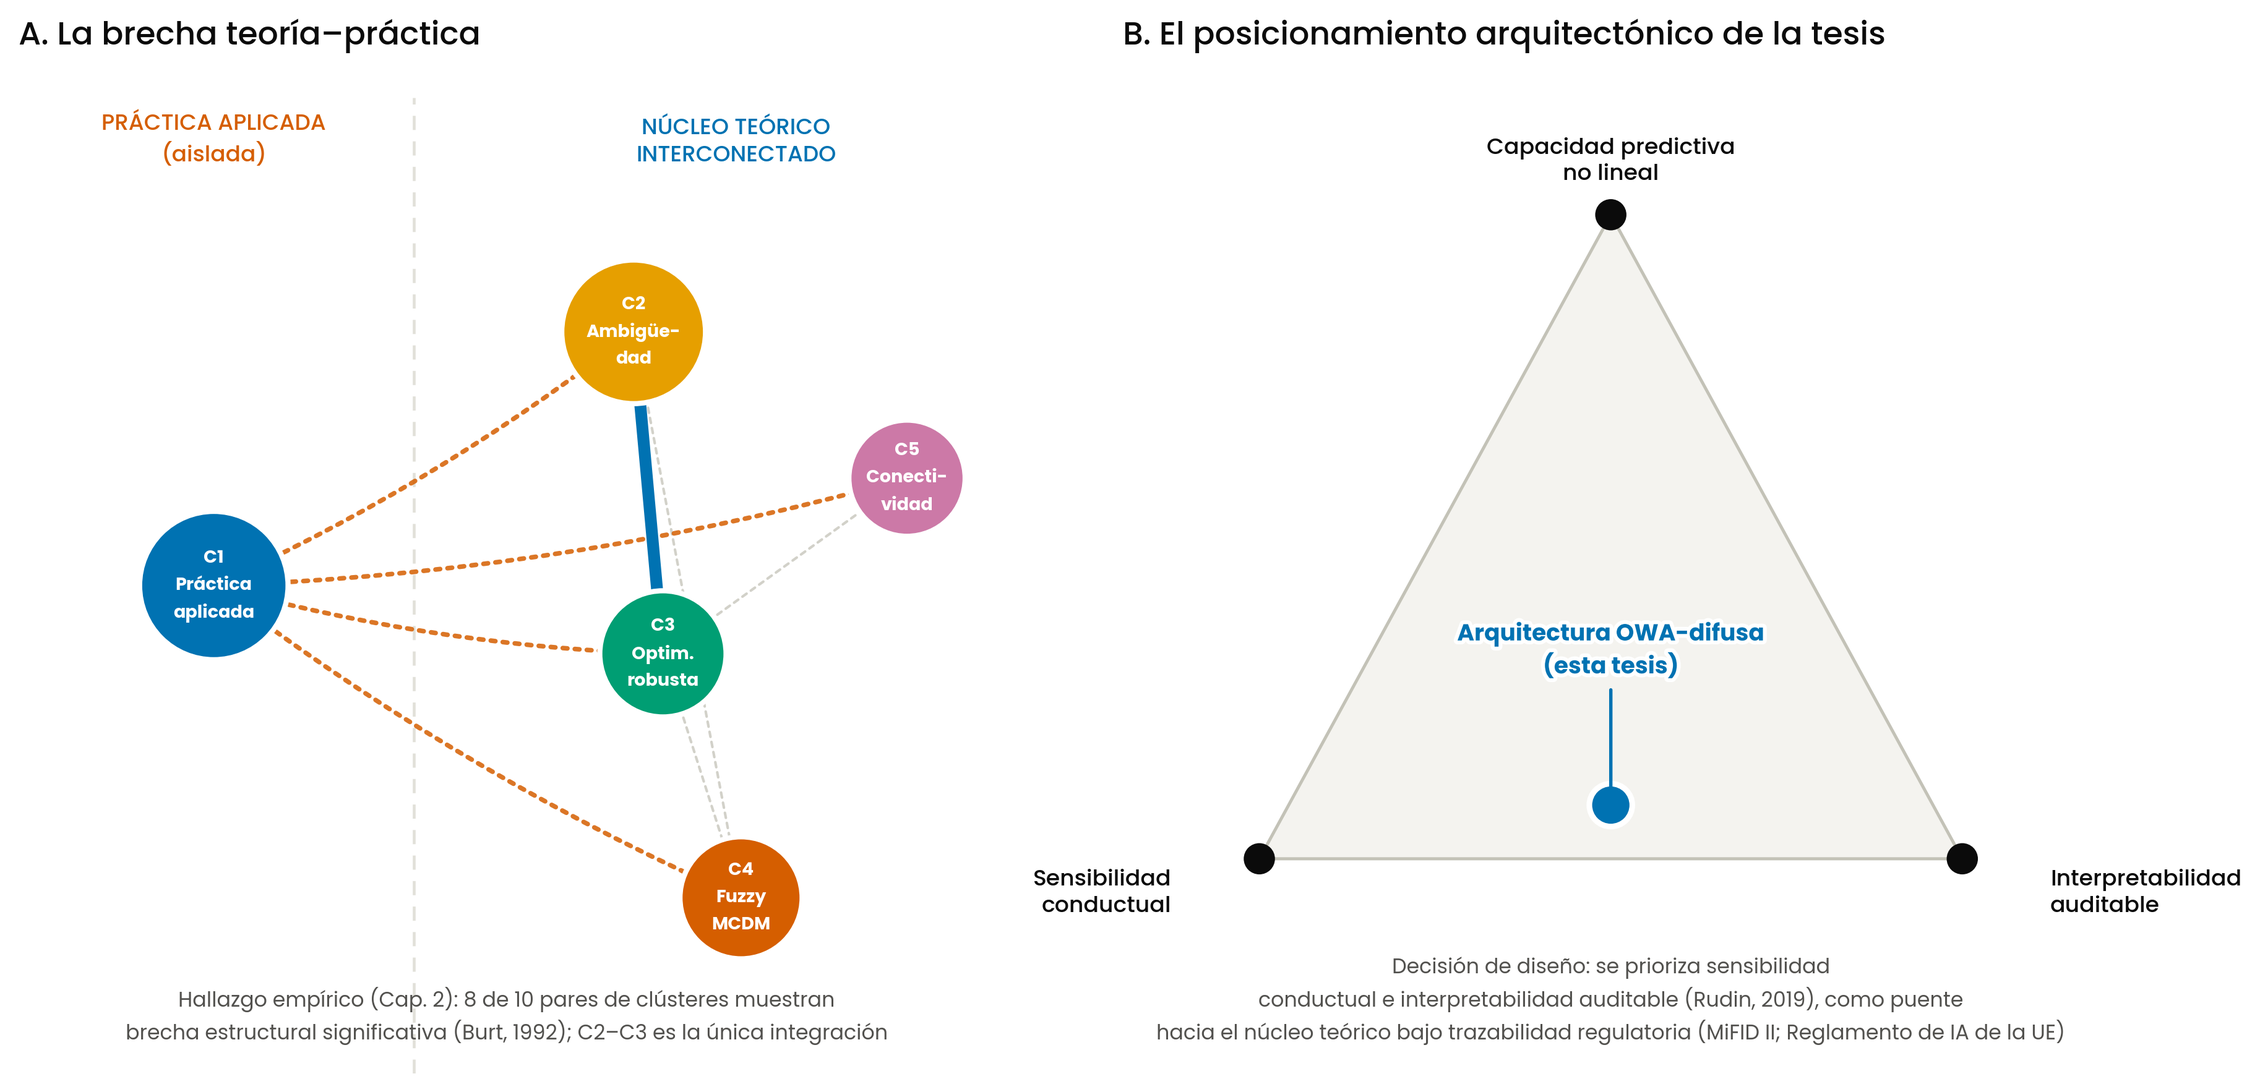
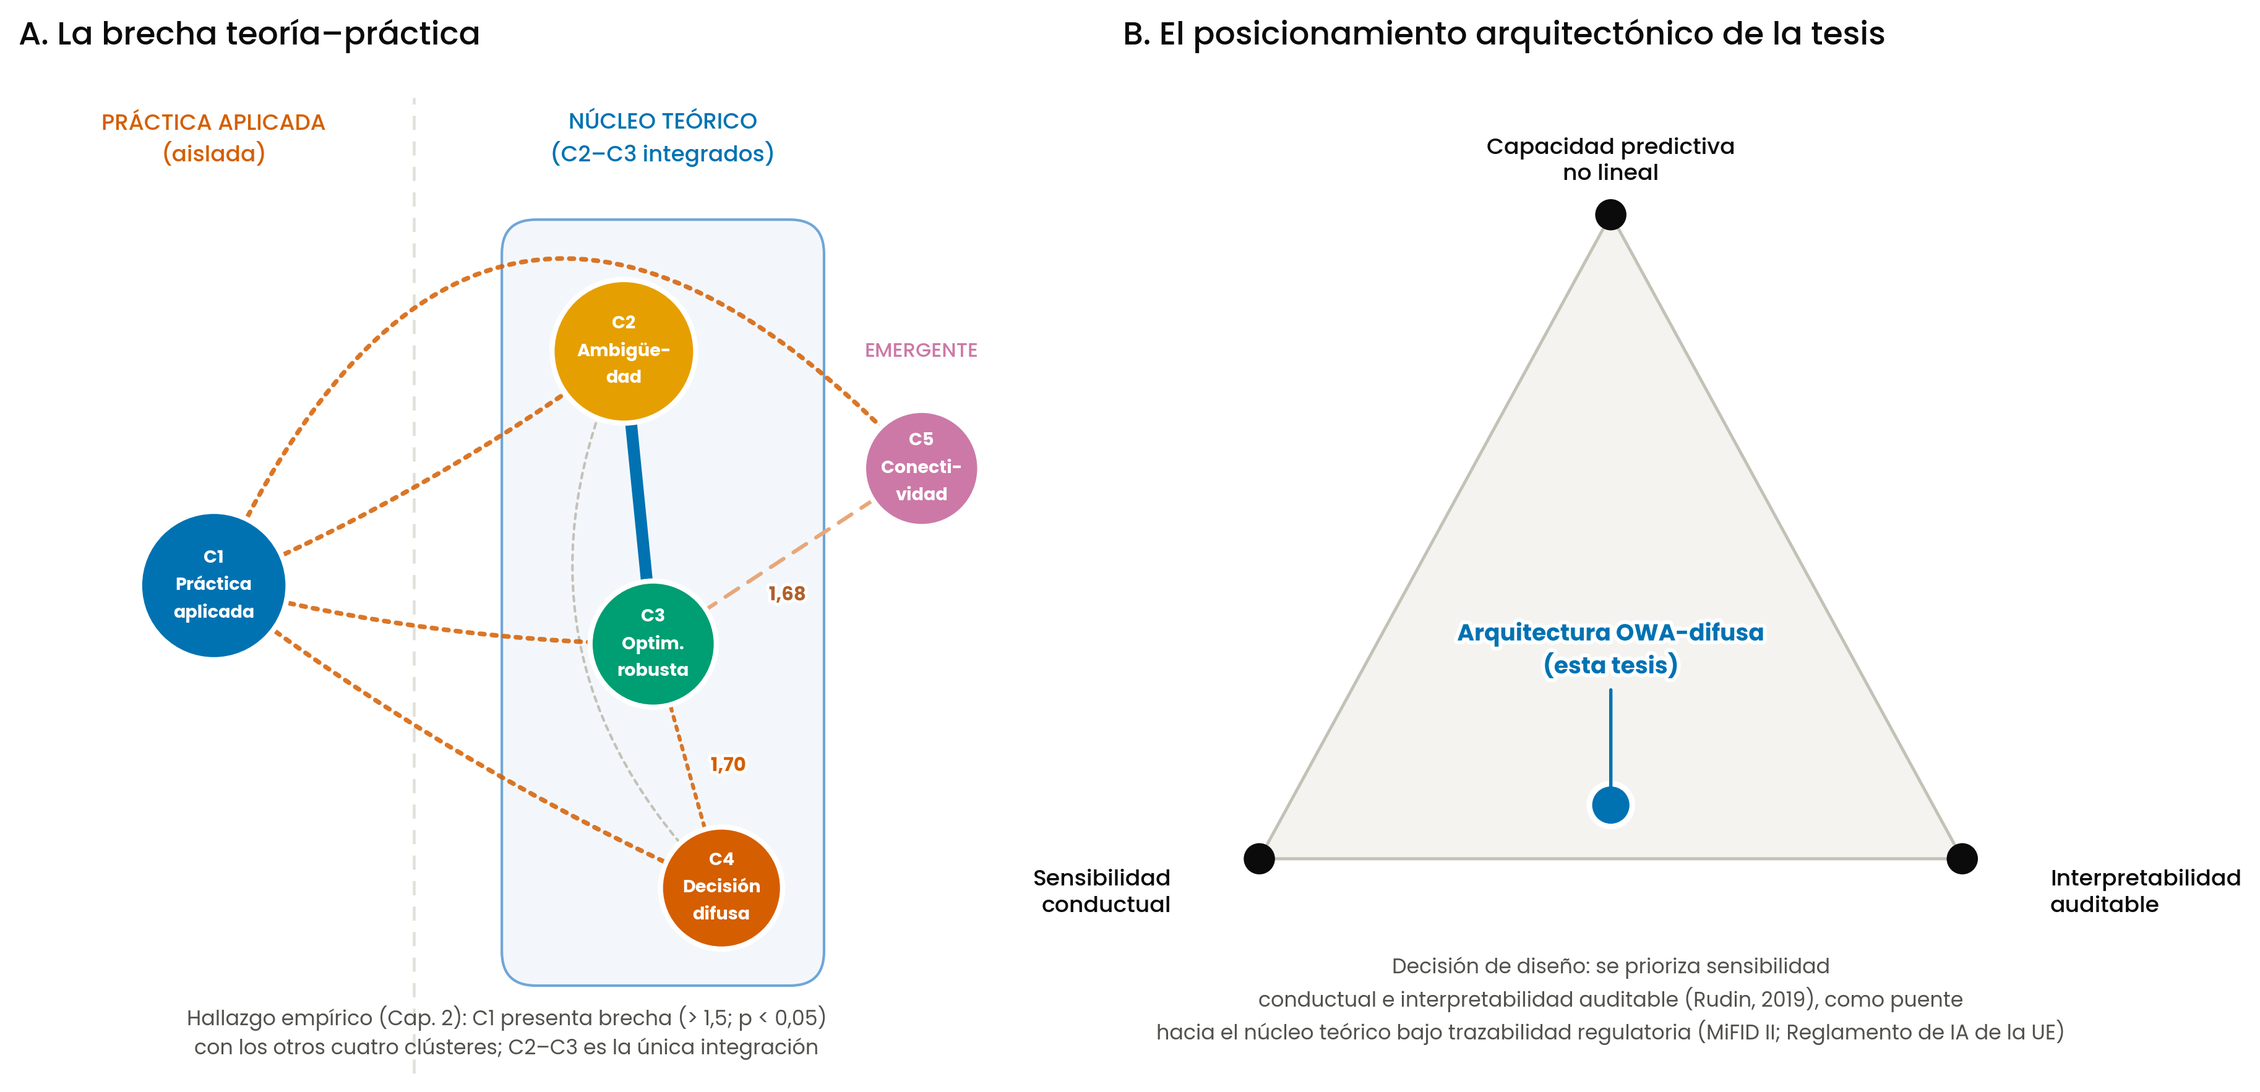
Figuras 1.4, 2.5 y 2.6 coherentes con la prueba de las brechas

diff --git a/figures/fig_2_6_brecha.py b/figures/fig_2_6_brecha.py
@@ -1,91 +1,147 @@
-"""Figura 2.6 — Esquema de la brecha teoría-práctica: C1 aislado del resto de la red temática."""
+"""Figura 2.6 — Esquema de la brecha teoría-práctica: C1 aislado del resto de la red temática.
+
+Los valores proceden de data/final/gap_analysis_v2.json (Tabla 2.3; Figura 2.5
+para la matriz completa) y los p-valores de results/prueba_brechas.csv
+(scripts/11_prueba_brechas_poisson.py). Convención de trazo:
+- rojo punteado: índice > 1,5 y p < 0,05 (prueba de Poisson);
+- rojo tenue discontinuo: índice > 1,5 con p >= 0,05;
+- gris: índice próximo a 1 (sin brecha);
+- azul continuo: integración por encima de lo esperado.
+"""
 import sys
 sys.path.insert(0, '.')
+import csv
 import json
 from style import *
-from matplotlib.patches import FancyArrowPatch, Circle
+from matplotlib.patches import FancyArrowPatch, Circle, FancyBboxPatch
+from matplotlib.lines import Line2D
 import matplotlib.patheffects as pe
 
 with open('../data/final/cluster_summaries.json', encoding='utf-8') as f:
     clusters = {c['cluster_rank']: c for c in json.load(f)}
+with open('../data/final/gap_analysis_v2.json', encoding='utf-8') as f:
+    gap = {tuple(p['par']): p for p in json.load(f)['pairs']}
+pval = {}
+with open('../results/prueba_brechas.csv', encoding='utf-8') as f:
+    for r in csv.DictReader(f):
+        a, b = [int(x[1:]) for x in r['par'].split('-')]
+        pval[(a, b)] = float(r['p_poisson'])
 
 pos = {
     1: (1.9, 5.0),
-    2: (6.1, 7.6),
-    3: (6.4, 4.4),
-    4: (7.0, 1.9),
-    5: (9.0, 6.3),
+    2: (5.9, 7.2),
+    3: (6.2, 4.5),
+    4: (6.8, 1.9),
+    5: (9.7, 5.6),
 }
 labels = {
     1: 'C1\nOpciones reales',
     2: 'C2\nAmbigüedad',
     3: 'C3\nOptim. robusta',
-    4: 'C4\nMCDM difuso',
+    4: 'C4\nDecisión\ndifusa',
     5: 'C5\nConectividad',
 }
+GMAX = gap[(1, 4)]['gap_score']
+FAINT_RED = '#e8a77a'
 
-fig, ax = new_fig(w=10.4, h=7.6)
-ax.set_xlim(0, 10.6)
-ax.set_ylim(0.5, 9.0)
+
+def radius(r):
+    return 0.42 + 0.34 * (clusters[r]['n_docs'] / 1202) ** 0.5
+
+
+def edge_label(i, j, frac, text, color, dx=0.0, dy=0.0):
+    (x1, y1), (x2, y2) = pos[i], pos[j]
+    mx, my = x1 * (1 - frac) + x2 * frac + dx, y1 * (1 - frac) + y2 * frac + dy
+    ax.text(mx, my, text, ha='center', va='center', fontsize=8.3, color=color,
+            family='Poppins', fontweight='bold', zorder=6, linespacing=1.25,
+            path_effects=[pe.withStroke(linewidth=2.8, foreground='white')])
+
+
+def gap_edge(i, j, frac, dx=0.0, dy=0.0, rad=0.06):
+    key = (min(i, j), max(i, j))
+    g = gap[key]['gap_score']
+    sig = pval[key] < 0.05
+    lw = 1.2 + 3.6 * (g / GMAX)
+    if sig:
+        a = FancyArrowPatch(pos[i], pos[j], arrowstyle='-', linewidth=lw, color=DIV_RED,
+                             linestyle=(0, (1, 1.4)), zorder=2, alpha=0.9,
+                             connectionstyle=f'arc3,rad={rad}')
+        txt, col = coma(g), DIV_RED
+    else:
+        a = FancyArrowPatch(pos[i], pos[j], arrowstyle='-', linewidth=lw, color=FAINT_RED,
+                             linestyle=(0, (4, 3)), zorder=2, alpha=0.9,
+                             connectionstyle=f'arc3,rad={rad}')
+        txt, col = f'{coma(g)}\n(p = {coma(pval[key], 2)})', '#b0602b'
+    ax.add_patch(a)
+    edge_label(i, j, frac, txt, col, dx, dy)
+
+
+fig, ax = new_fig(w=10.8, h=8.8)
+ax.set_xlim(0, 10.9)
+ax.set_ylim(-0.4, 10.4)
 ax.set_aspect('equal', adjustable='box')
 ax.axis('off')
 
-# Zona conceptual: divisor sutil entre "práctica aislada" (C1) y "núcleo teórico"
+# Divisor entre práctica aplicada y el resto del campo
 ax.axvline(3.9, color=GRID, linewidth=1.1, linestyle=(0, (5, 4)), zorder=1)
-ax.text(1.9, 8.55, 'PRÁCTICA APLICADA\n(aislada)', ha='center', fontsize=8.8, color=DIV_RED,
+ax.text(1.9, 9.75, 'PRÁCTICA APLICADA\n(aislada)', ha='center', fontsize=8.8, color=DIV_RED,
         family='Poppins', fontweight='medium', linespacing=1.4)
-ax.text(7.1, 8.55, 'NÚCLEO TEÓRICO INTERCONECTADO', ha='center', fontsize=8.8, color=SEQ_BLUE[4],
-        family='Poppins', fontweight='medium')
 
-# --- Brechas de C1 con el resto (el hallazgo nuclear) ---
-c1_gaps = {2: 4.54, 3: 1.57, 4: 7.73, 5: 7.20}
-gmax = max(c1_gaps.values())
-for j, g in c1_gaps.items():
-    lw = 1.2 + 3.6 * (g / gmax)
-    a = FancyArrowPatch(pos[1], pos[j], arrowstyle='-', linewidth=lw, color=DIV_RED,
-                         linestyle=(0, (1, 1.4)), zorder=2, alpha=0.85,
-                         connectionstyle='arc3,rad=0.06')
-    ax.add_patch(a)
-    frac = {2: 0.42, 3: 0.42, 4: 0.42, 5: 0.30}[j]
-    mx, my = (pos[1][0]*(1-frac) + pos[j][0]*frac), (pos[1][1]*(1-frac) + pos[j][1]*frac)
-    ax.text(mx, my, coma(g), ha='center', va='center', fontsize=8.3, color=DIV_RED,
-            family='Poppins', fontweight='bold', zorder=5,
-            path_effects=[pe.withStroke(linewidth=2.6, foreground='white')])
+# Núcleo teórico: C2, C3 y C4 dentro de un recuadro; C5 fuera
+box = FancyBboxPatch((4.75, 0.85), 3.35, 7.2, boxstyle='round,pad=0.05,rounding_size=0.35',
+                     facecolor='#f3f7fb', edgecolor=SEQ_BLUE[2], linewidth=1.0, zorder=0)
+ax.add_patch(box)
+ax.text(6.42, 0.35, 'NÚCLEO TEÓRICO (C2–C3 integrados)', ha='center', fontsize=8.8,
+        color=SEQ_BLUE[4], family='Poppins', fontweight='medium', linespacing=1.4)
+ax.text(9.7, 7.0, 'ESPECIALIDAD\nEMERGENTE', ha='center', fontsize=8.8, color=CAT['C5'],
+        family='Poppins', fontweight='medium', linespacing=1.4)
 
-# --- Integración C2-C3 (hallazgo secundario) ---
-a = FancyArrowPatch(pos[2], pos[3], arrowstyle='-', linewidth=5.2, color=DIV_BLUE, zorder=2)
-ax.add_patch(a)
-ax.text((pos[2][0]+pos[3][0])/2 + 0.55, (pos[2][1]+pos[3][1])/2, '0,37\nintegración',
+# Brechas de C1 con los otros cuatro clústeres (hallazgo nuclear)
+gap_edge(1, 2, 0.42)
+gap_edge(1, 3, 0.42)
+gap_edge(1, 4, 0.42)
+gap_edge(1, 5, 0.5, dy=3.95, rad=-1.0)
+
+# Brechas dentro del campo teórico y con C5
+gap_edge(3, 4, 0.50, dx=0.45)
+gap_edge(3, 5, 0.55, dy=-0.55)
+
+# Integración C2–C3
+ax.add_patch(FancyArrowPatch(pos[2], pos[3], arrowstyle='-', linewidth=5.2, color=DIV_BLUE, zorder=2))
+ax.text((pos[2][0] + pos[3][0]) / 2 + 0.5, (pos[2][1] + pos[3][1]) / 2, f"{coma(gap[(2, 3)]['gap_score'])}\nintegración",
         ha='left', va='center', fontsize=8.3, color=DIV_BLUE, family='Poppins', fontweight='bold',
-        linespacing=1.3, zorder=5)
+        linespacing=1.3, zorder=6, path_effects=[pe.withStroke(linewidth=2.8, foreground='white')])
 
-# --- Resto de pares del núcleo (de-enfatizados; ver Figura 2.4 para valores exactos) ---
-secondary_pairs = [(3, 4), (3, 5), (2, 4)]
-for i, j in secondary_pairs:
-    a = FancyArrowPatch(pos[i], pos[j], arrowstyle='-', linewidth=1.0, color=BASELINE,
-                         linestyle=(0, (2, 2)), zorder=1, alpha=0.75)
-    ax.add_patch(a)
+# C2–C4: sin brecha (co-ocurrencia próxima a la esperada)
+ax.add_patch(FancyArrowPatch(pos[2], pos[4], arrowstyle='-', linewidth=1.1, color=BASELINE,
+                             linestyle=(0, (2, 2)), zorder=1, connectionstyle='arc3,rad=0.35'))
+edge_label(2, 4, 0.7, f"{coma(gap[(2, 4)]['gap_score'])}", INK_MUTED, dx=-1.05)
 
-# --- Nodos ---
+# Nodos
 for r, (x, y) in pos.items():
-    n = clusters[r]['n_docs']
-    radius = 0.42 + 0.34 * (n / 1202) ** 0.5
-    circ = Circle((x, y), radius, facecolor=CAT[f'C{r}'], edgecolor='white', linewidth=2.2, zorder=4)
-    ax.add_patch(circ)
+    ax.add_patch(Circle((x, y), radius(r), facecolor=CAT[f'C{r}'], edgecolor='white', linewidth=2.2, zorder=4))
     ax.text(x, y, labels[r], ha='center', va='center', fontsize=7.9, color='white',
             family='Poppins', fontweight='bold', zorder=5, linespacing=1.4)
 
-# Nota sobre pares sin co-ocurrencia (C2–C5, C4–C5): no se dibujan (ausencia real de vínculo)
-ax.text(9.3, 3.55, 'C2–C5 y C4–C5:\nsin co-ocurrencia\n(sin vínculo)', ha='center',
-        fontsize=7.2, color=INK_MUTED, family='Poppins', linespacing=1.3)
+# Pares sin co-ocurrencia (no se dibujan)
+ax.text(9.7, 3.3, 'Sin co-ocurrencia\n(no se dibujan):\n'
+        f'C2–C5 (p = {coma(pval[(2, 5)], 3)})\nC4–C5 (p = {coma(pval[(4, 5)], 2)})',
+        ha='center', fontsize=7.4, color=INK_SECONDARY, family='Poppins', linespacing=1.35)
 
-title_block(fig, 'Figura 2.6 · La brecha teoría-práctica: C1 aislado del núcleo teórico',
-            'C1 (práctica aplicada) muestra brecha significativa con los cuatro clústeres restantes; '
-            'C2–C3 es la única integración temática del campo',
-            x=0.035, y=0.975, sub_y=0.925)
-source_note(fig, 'Fuente: elaboración propia a partir de la Tabla 2.3 (puntuación de brecha estructural, Burt 1992). '
-                  'Grosor de línea = magnitud de la brecha; tamaño de nodo = número de documentos del clúster.')
+# Leyenda de trazos
+handles = [
+    Line2D([0], [0], color=DIV_RED, lw=2.4, linestyle=(0, (1, 1.2)), label='Brecha > 1,5 con p < 0,05'),
+    Line2D([0], [0], color=FAINT_RED, lw=2.4, linestyle=(0, (4, 3)), label='Brecha > 1,5 con p ≥ 0,05'),
+    Line2D([0], [0], color=BASELINE, lw=1.4, linestyle=(0, (2, 2)), label='Sin brecha (≈ 1)'),
+    Line2D([0], [0], color=DIV_BLUE, lw=4.0, label='Integración (< 1)'),
+]
+leg = ax.legend(handles=handles, loc='lower center', bbox_to_anchor=(0.5, -0.02), ncol=4,
+                frameon=False, fontsize=8.0, handlelength=2.6, columnspacing=1.4)
+for t in leg.get_texts():
+    t.set_color(INK_SECONDARY)
 
-plt.tight_layout(rect=[0.01, 0.02, 0.99, 0.895])
+title_block(fig, 'Figura 2.6 · La brecha teoría-práctica', None)
+
+plt.tight_layout(rect=[0.01, 0.02, 0.99, 0.99])
 plt.savefig('fig_2_6_brecha.png', dpi=300, bbox_inches='tight', facecolor='white')
 print('OK fig_2_6_brecha.png')

diff --git a/figures/fig_1_4_brecha_diseno.py b/figures/fig_1_4_brecha_diseno.py
@@ -23,16 +23,16 @@ axL.axis('off')
 
 pos = {
     'C1': (2.0, 5.0),
-    'C2': (6.3, 7.6),
-    'C3': (6.6, 4.3),
-    'C4': (7.4, 1.8),
-    'C5': (9.1, 6.1),
+    'C2': (6.2, 7.4),
+    'C3': (6.5, 4.4),
+    'C4': (7.2, 1.9),
+    'C5': (9.25, 6.2),
 }
 labels = {
     'C1': 'C1\nPráctica aplicada\n(opciones reales)',
     'C2': 'C2\nAmbigüedad',
     'C3': 'C3\nOptim. robusta',
-    'C4': 'C4\nFuzzy MCDM',
+    'C4': 'C4\nDecisión difusa',
     'C5': 'C5\nConectividad',
 }
 sizes = {'C1': 1202, 'C2': 989, 'C3': 381, 'C4': 279, 'C5': 161}
@@ -40,25 +40,38 @@ sizes = {'C1': 1202, 'C2': 989, 'C3': 381, 'C4': 279, 'C5': 161}
 axL.axvline(4.05, color=GRID, linewidth=1.1, linestyle=(0, (5, 4)), zorder=1)
 axL.text(2.0, 9.35, 'PRÁCTICA APLICADA\n(aislada)', ha='center', fontsize=8.6, color=DIV_RED,
           family='Poppins', fontweight='medium', linespacing=1.35)
-axL.text(7.35, 9.35, 'NÚCLEO TEÓRICO\nINTERCONECTADO', ha='center', fontsize=8.6, color=SEQ_BLUE[4],
+from matplotlib.patches import FancyBboxPatch
+axL.add_patch(FancyBboxPatch((5.0, 0.95), 3.2, 7.75, boxstyle='round,pad=0.05,rounding_size=0.35',
+                             facecolor='#f3f7fb', edgecolor=SEQ_BLUE[2], linewidth=1.0, zorder=0))
+axL.text(6.6, 9.35, 'NÚCLEO TEÓRICO\n(C2–C3 integrados)', ha='center', fontsize=8.6, color=SEQ_BLUE[4],
           family='Poppins', fontweight='medium', linespacing=1.35)
+axL.text(9.25, 7.35, 'EMERGENTE', ha='center', fontsize=7.8, color=CAT['C5'],
+          family='Poppins', fontweight='medium')
 
-# C1 desconectado de los otros cuatro (brechas significativas, Burt 1992)
+# C1 frente a los otros cuatro clústeres (índice > 1,5 y p < 0,05 en los cuatro pares)
 for j in ['C2', 'C3', 'C4', 'C5']:
     a = FancyArrowPatch(pos['C1'], pos[j], arrowstyle='-', linewidth=1.8, color=DIV_RED,
                          linestyle=(0, (1, 1.6)), zorder=2, alpha=0.85,
-                         connectionstyle='arc3,rad=0.06')
+                         connectionstyle='arc3,rad=%s' % (-0.75 if j == 'C5' else 0.06))
     axL.add_patch(a)
 
-# Integración C2-C3 (único par sin brecha significativa)
+# Integración C2-C3 (co-ocurrencia por encima de la esperada)
 a = FancyArrowPatch(pos['C2'], pos['C3'], arrowstyle='-', linewidth=4.6, color=DIV_BLUE, zorder=2)
 axL.add_patch(a)
 
-# resto de pares del núcleo, de-enfatizados
-for i, j in [('C3', 'C4'), ('C3', 'C5'), ('C2', 'C4')]:
-    a = FancyArrowPatch(pos[i], pos[j], arrowstyle='-', linewidth=1.0, color=BASELINE,
-                         linestyle=(0, (2, 2)), zorder=1, alpha=0.75)
-    axL.add_patch(a)
+# C3-C4 (1,70; p < 0,05) y C3-C5 (1,68; p = 0,20): brechas por encima del umbral;
+# C2-C4 (1,03): sin brecha (valores en la Tabla 2.3 y results/prueba_brechas.csv)
+axL.add_patch(FancyArrowPatch(pos['C3'], pos['C4'], arrowstyle='-', linewidth=1.5, color=DIV_RED,
+                              linestyle=(0, (1, 1.6)), zorder=2, alpha=0.85))
+axL.add_patch(FancyArrowPatch(pos['C3'], pos['C5'], arrowstyle='-', linewidth=1.5, color='#e8a77a',
+                              linestyle=(0, (4, 3)), zorder=2))
+axL.add_patch(FancyArrowPatch(pos['C2'], pos['C4'], arrowstyle='-', linewidth=1.0, color=BASELINE,
+                              linestyle=(0, (2, 2)), zorder=1, connectionstyle='arc3,rad=0.35'))
+for (i, j), txt, col, dx, dy in [(('C3', 'C4'), '1,70', DIV_RED, 0.42, 0.0),
+                                 (('C3', 'C5'), '1,68', '#b0602b', 0.0, -0.40)]:
+    mx, my = (pos[i][0] + pos[j][0]) / 2 + dx, (pos[i][1] + pos[j][1]) / 2 + dy
+    axL.text(mx, my, txt, ha='center', va='center', fontsize=7.4, color=col, family='Poppins',
+             fontweight='bold', zorder=6, path_effects=[pe.withStroke(linewidth=2.4, foreground='white')])
 
 def node_label(ax, cx, cy, lines, fontsize=7.3, line_gap=0.30):
     """Coloca cada línea de la etiqueta por separado (evita el bug de centrado
@@ -74,7 +87,7 @@ label_lines = {
     'C1': ['C1', 'Práctica', 'aplicada'],
     'C2': ['C2', 'Ambigüe-', 'dad'],
     'C3': ['C3', 'Optim.', 'robusta'],
-    'C4': ['C4', 'Fuzzy', 'MCDM'],
+    'C4': ['C4', 'Decisión', 'difusa'],
     'C5': ['C5', 'Conecti-', 'vidad'],
 }
 for k, (x, y) in pos.items():
@@ -82,8 +95,8 @@ for k, (x, y) in pos.items():
     axL.add_patch(Circle((x, y), r, facecolor=CAT[k], edgecolor='white', linewidth=2.0, zorder=4))
     node_label(axL, x, y, label_lines[k], fontsize=6.9, line_gap=0.28)
 
-axL.text(5.0, 0.35, 'Hallazgo empírico (Cap. 2): 8 de 10 pares de clústeres muestran\n'
-                     'brecha estructural significativa (Burt, 1992); C2–C3 es la única integración',
+axL.text(5.0, 0.2, 'Hallazgo empírico (Cap. 2): C1 presenta brecha (> 1,5; p < 0,05)\n'
+                     'con los otros cuatro clústeres; C2–C3 es la única integración',
           ha='center', fontsize=8.0, color=INK_SECONDARY, family='Poppins', linespacing=1.4)
 
 axL.text(0.0, 10.55, 'A. La brecha teoría–práctica', ha='left', fontsize=12.5,
@@ -120,7 +133,7 @@ for k, v in V.items():
               color=INK_PRIMARY, family='Poppins', fontweight='medium', linespacing=1.3, zorder=5)
 
 # Punto de diseño de la tesis: sobre la arista sensibilidad-interpretabilidad,
-# desplazado lejos del vértice predictivo (renuncia deliberada a ese vértice)
+# desplazado lejos del vértice predictivo (elección de diseño)
 t = 0.5
 p_tesis = V['cond'] * (1 - t) + V['interp'] * t
 p_tesis[1] += 0.55  # ligera elevación por el componente adaptativo IOWA

diff --git a/figures/fig_2_5_gap_matrix.py b/figures/fig_2_5_gap_matrix.py
@@ -9,6 +9,14 @@ import matplotlib.patches as mpatches
 with open('../data/final/gap_analysis_v2.json', encoding='utf-8') as f:
     data = json.load(f)
 
+# p-valores de Poisson del paso 11 (scripts/11_prueba_brechas_poisson.py)
+import csv
+pval = {}
+with open('../results/prueba_brechas.csv', encoding='utf-8') as f:
+    for r in csv.DictReader(f):
+        a, b = [int(x[1:]) for x in r['par'].split('-')]
+        pval[(a, b)] = pval[(b, a)] = float(r['p_poisson'])
+
 labels = {1: 'C1', 2: 'C2', 3: 'C3', 4: 'C4', 5: 'C5'}
 n = 5
 mat = np.full((n, n), np.nan)
@@ -54,8 +62,11 @@ for i in range(n):
         if inf_mask[i, j]:
             ax.add_patch(mpatches.Rectangle((x, y), cell, cell, facecolor=DIV_RED, edgecolor='white',
                                              linewidth=2, zorder=2, hatch='xxxx', alpha=0.92))
-            ax.text(x + 0.5, y + 0.5, 'S/C', ha='center', va='center', fontsize=10.5,
-                    color='white', family='Poppins', fontweight='bold', zorder=3)
+            # S/C: indice infinito, siempre por encima del umbral de 1,5 (lleva *)
+            dag = '†' if pval[(i+1, j+1)] < 0.05 else ''
+            ax.text(x + 0.5, y + 0.5, f'S/C *{dag}', ha='center', va='center', fontsize=10.5,
+                    color='white', family='Poppins', fontweight='bold', zorder=3,
+                    bbox=dict(boxstyle='round,pad=0.25', facecolor=DIV_RED, edgecolor='none'))
         elif not np.isnan(v):
             col = color_for(v)
             ax.add_patch(mpatches.Rectangle((x, y), cell, cell, facecolor=col, edgecolor='white', linewidth=2, zorder=2))
@@ -63,7 +74,8 @@ for i in range(n):
             rgb = col[:3] if isinstance(col, tuple) else col
             lum = 0.299*rgb[0] + 0.587*rgb[1] + 0.114*rgb[2]
             txt_color = 'white' if lum < 0.62 else INK_PRIMARY
-            flag = ' *' if v > 1.5 else ''
+            marks = ('*' if v > 1.5 else '') + ('†' if pval[(i+1, j+1)] < 0.05 else '')
+            flag = f' {marks}' if marks else ''
             ax.text(x + 0.5, y + 0.5, f'{coma(v)}{flag}', ha='center', va='center', fontsize=11.5,
                     color=txt_color, family='Poppins', fontweight='bold', zorder=3)
 
@@ -84,18 +96,20 @@ grad = np.linspace(-1, 1, 256).reshape(1, -1)
 grad_ax.imshow(grad, aspect='auto', cmap=DIV_CMAP, extent=[vmin, vmax, 0, 1])
 grad_ax.set_yticks([])
 grad_ax.set_xscale('log')
+from matplotlib.ticker import NullLocator
+grad_ax.xaxis.set_minor_locator(NullLocator())
 grad_ax.set_xticks([vmin, 1, vmax])
-grad_ax.set_xticklabels([f'{coma(vmin)}\nintegración', '1,0\nsin brecha', f'{coma(vmax)}\nbrecha significativa'],
+grad_ax.set_xticklabels([f'{coma(vmin)}\nintegración', '1,0\nsin brecha', f'{coma(vmax)}\nbrecha máxima'],
                          fontsize=7.6, family='Poppins', color=INK_SECONDARY)
 grad_ax.tick_params(length=0)
 for s in grad_ax.spines.values():
     s.set_visible(False)
 
-fig.text(0.5, 0.085, 'gap$_{ij}$ = (f$_i$ · f$_j$ / N) / cooc$_{ij}$     ·     * brecha significativa (> 1,5)     ·     S/C = sin co-ocurrencia observada',
+fig.text(0.5, 0.085, 'gap$_{ij}$ = (f$_i$ · f$_j$ / N) / cooc$_{ij}$   ·   * índice > 1,5   ·   † p < 0,05 (prueba de Poisson)   ·   S/C = sin co-ocurrencia observada',
          ha='center', fontsize=8.0, color=INK_MUTED, family='Poppins')
 
 title_block(fig, 'Figura 2.5 · Brechas estructurales entre clústeres temáticos',
-            '8 de 10 pares de clústeres muestran una brecha significativa (Burt, 1992); C2–C3 es la única integración',
+            '8 de 10 pares superan el umbral de 1,5 (6 con p < 0,05); C2–C3 es la única integración',
             x=0.10, y=0.975, sub_y=0.935)
 source_note(fig, 'Fuente: elaboración propia. Puntuación de brecha calculada sobre palabra clave dominante y exclusiva por clúster (N = 3.643).', y=0.025)
 
